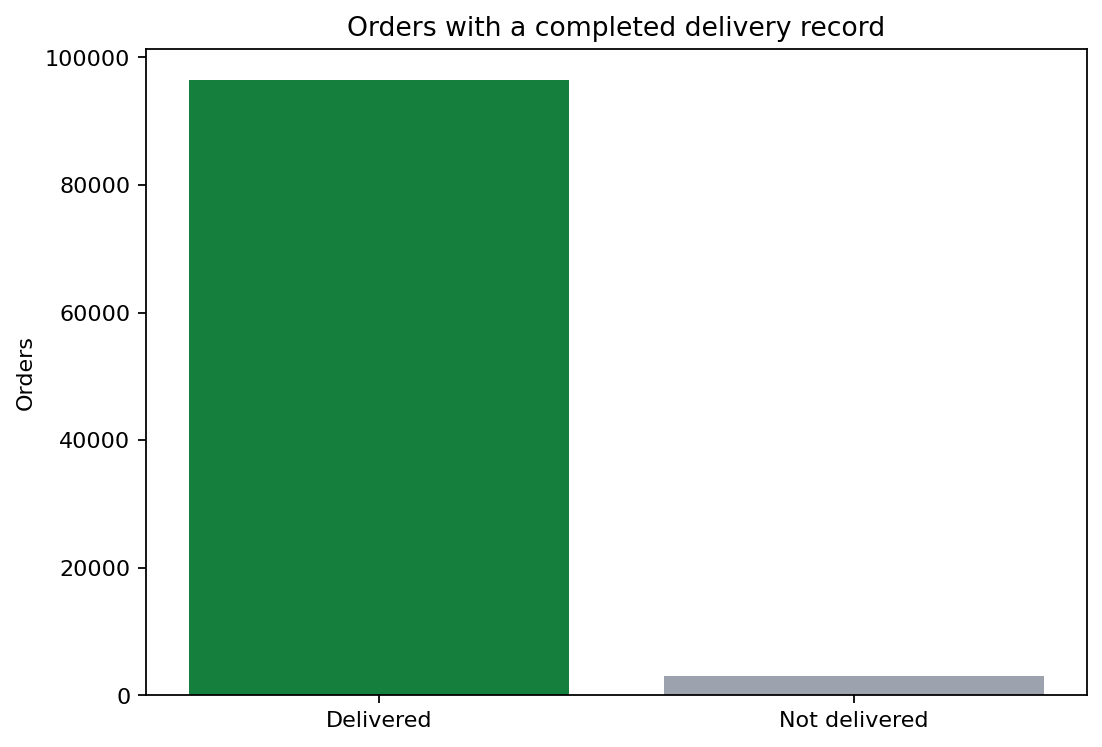
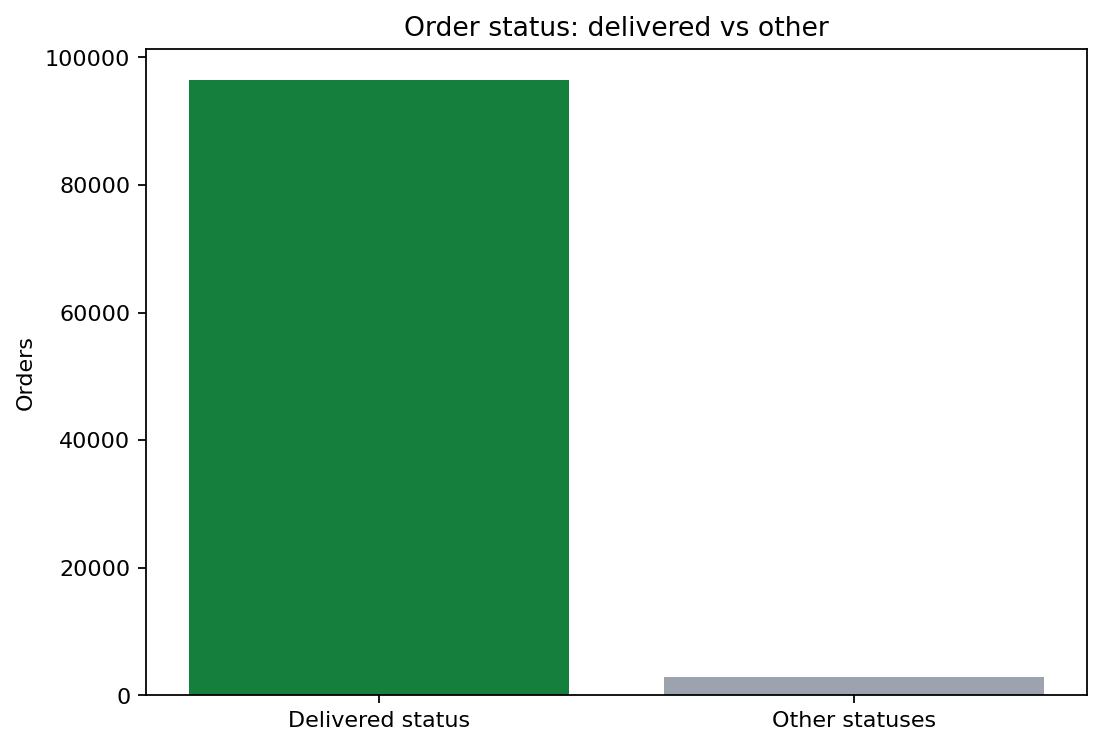
Address baseline EDA review comments

Changed region(s): [[0.3085, 0.0, 0.8022, 0.0616], [0.2468, 0.9545, 0.4319, 0.9853], [0.7096, 0.9545, 0.8639, 0.9853]]

diff --git a/dashboard/data.js b/dashboard/data.js
@@ -935,6 +935,40 @@ window.DVD_DASHBOARD_DATA = {
       "segment": "Same state"
     }
   ],
+  "statusCounts": [
+    {
+      "orders": 2,
+      "status": "approved"
+    },
+    {
+      "orders": 625,
+      "status": "canceled"
+    },
+    {
+      "orders": 5,
+      "status": "created"
+    },
+    {
+      "orders": 96478,
+      "status": "delivered"
+    },
+    {
+      "orders": 314,
+      "status": "invoiced"
+    },
+    {
+      "orders": 301,
+      "status": "processing"
+    },
+    {
+      "orders": 1107,
+      "status": "shipped"
+    },
+    {
+      "orders": 609,
+      "status": "unavailable"
+    }
+  ],
   "summary": {
     "avgDeliveryDays": 12.6,
     "avgReview": 4.09,

diff --git a/scripts/build_order_journey_eda.py b/scripts/build_order_journey_eda.py
@@ -10,7 +10,6 @@ import pandas as pd
 
 
 ROOT_DIR = Path(__file__).resolve().parents[1]
-WORKBOOK = ROOT_DIR / "Dataviz_proj_all_datasets.xlsx"
 DATA_FILE = ROOT_DIR / "dashboard" / "data.js"
 OUTPUT_DIR = ROOT_DIR / "docs" / "eda"
 
@@ -32,16 +31,7 @@ def save_chart(name: str) -> None:
 def build_report(data: dict) -> str:
     summary = data["summary"]
     metadata = data["metadata"]
-    status = pd.Series({
-        "delivered": 96478,
-        "shipped": 1107,
-        "canceled": 625,
-        "unavailable": 609,
-        "invoiced": 314,
-        "processing": 301,
-        "created": 5,
-        "approved": 2,
-    })
+    status = pd.DataFrame(data["statusCounts"]).set_index("status")["orders"]
     review_frame = pd.DataFrame(data["reviewDistribution"])
     review_counts = review_frame.set_index("score")["count"]
     monthly_frame = pd.DataFrame(data["monthlyOrders"])
@@ -111,7 +101,7 @@ analyses.
 ## Scope and data handling
 
 - Source: `orders_dataset` and `order_reviews_dataset` through the validated dashboard pipeline.
-- One row in the order table represents one order; order IDs are checked for uniqueness.
+- One row in the order table represents one order; the upstream pipeline preserves the source row grain.
 - Review distribution uses review rows directly, so an order can contribute more than one review row if present.
 - A completed delivery means `order_status == delivered` and a non-missing `order_delivered_customer_date`, matching the project metric dictionary.
 - No orders are removed for this baseline overview. Missing timestamps and missing reviews follow the project metric dictionary denominator rules.

diff --git a/scripts/build_dashboard_data.py b/scripts/build_dashboard_data.py
@@ -611,6 +611,13 @@ def build_dashboard_data(
             "pipelineVersion": 1,
         },
         "summary": summary,
+        "statusCounts": records(
+            tables["orders"]["order_status"]
+            .value_counts()
+            .sort_index()
+            .rename_axis("status")
+            .reset_index(name="orders")
+        ),
         "reviewDistribution": records(
             tables["reviews"]["review_score"]
             .value_counts()

diff --git a/docs/eda/order_journey_eda.md b/docs/eda/order_journey_eda.md
@@ -1,17 +1,19 @@
 # Baseline Order-Journey EDA
 
-This report is generated by `scripts/build_order_journey_eda.py` from
-`Dataviz_proj_all_datasets.xlsx`. The analysis is order-level unless stated
-otherwise. It is intended to establish the marketplace baseline before the
-regional, product, seller, and delivery-impact analyses.
+This report is generated by `scripts/build_order_journey_eda.py` from the
+deterministic `dashboard/data.js` output. That output is built from
+`Dataviz_proj_all_datasets.xlsx` by the Issue #3 pipeline. The analysis is
+order-level unless stated otherwise. It is intended to establish the
+marketplace baseline before the regional, product, seller, and delivery-impact
+analyses.
 
 ## Scope and data handling
 
-- Source: `orders_dataset` and `order_reviews_dataset` workbook sheets.
-- One row in the order table represents one order; order IDs are checked for uniqueness.
+- Source: `orders_dataset` and `order_reviews_dataset` through the validated dashboard pipeline.
+- One row in the order table represents one order; the upstream pipeline preserves the source row grain.
 - Review distribution uses review rows directly, so an order can contribute more than one review row if present.
 - A completed delivery means `order_status == delivered` and a non-missing `order_delivered_customer_date`, matching the project metric dictionary.
-- No orders are removed for this baseline overview. Missing timestamps and missing reviews are reported through the relevant denominator rules.
+- No orders are removed for this baseline overview. Missing timestamps and missing reviews follow the project metric dictionary denominator rules.
 
 ## Scale snapshot
 
@@ -26,20 +28,20 @@ regional, product, seller, and delivery-impact analyses.
 | Average review score | 4.09 |
 | High reviews (4-5) | 77.1% |
 | Low reviews (1-2) | 14.7% |
-| Completed delivery records | 96,470 (97.0% of orders) |
+| Orders with delivered status | 96,478 (97.0% of orders) |
 
 ## Order status
 
 | Status | Orders |
 | --- | ---: |
-| `delivered` | 96,478 |
-| `shipped` | 1,107 |
+| `approved` | 2 |
 | `canceled` | 625 |
-| `unavailable` | 609 |
+| `created` | 5 |
+| `delivered` | 96,478 |
 | `invoiced` | 314 |
 | `processing` | 301 |
-| `created` | 5 |
-| `approved` | 2 |
+| `shipped` | 1,107 |
+| `unavailable` | 609 |
 
 The marketplace is overwhelmingly delivered orders, but the non-delivered
 statuses remain important for understanding the gap between placed orders and
@@ -67,12 +69,14 @@ large enough to warrant operational investigation. The review distribution is
 descriptive only here; delivery speed and category differences should be
 tested in the dedicated downstream analyses.
 
-## Delivery completion
+## Delivery status coverage
 
 ![Completed delivery records](delivery_outcomes.png)
 
-This chart uses the project definition of a completed delivery, rather than
-assuming that the `delivered` status alone guarantees a usable timestamp.
+This overview chart uses the exact order-status split. Delivery-time metrics
+use the stricter project definition requiring both `delivered` status and a
+non-missing customer-delivery timestamp; those metrics are validated by the
+project pipeline separately.
 
 ## Hypotheses for deeper analysis
 
